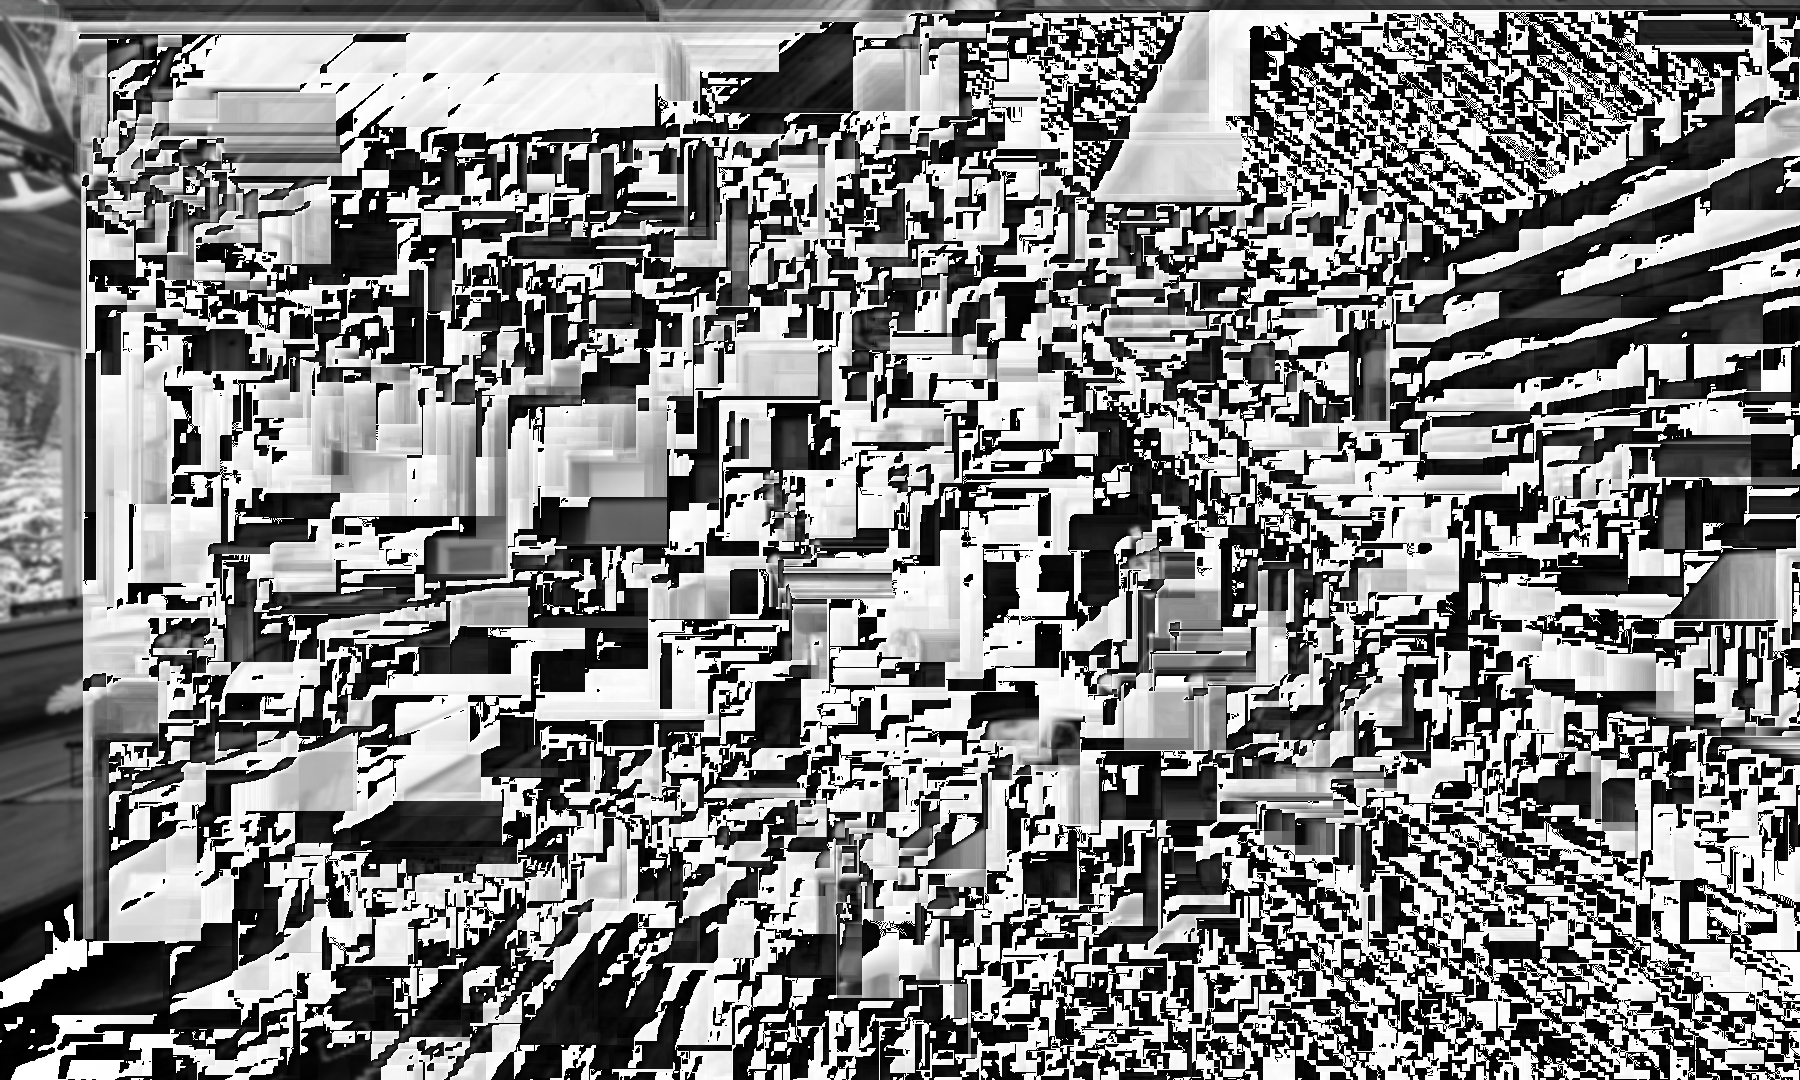
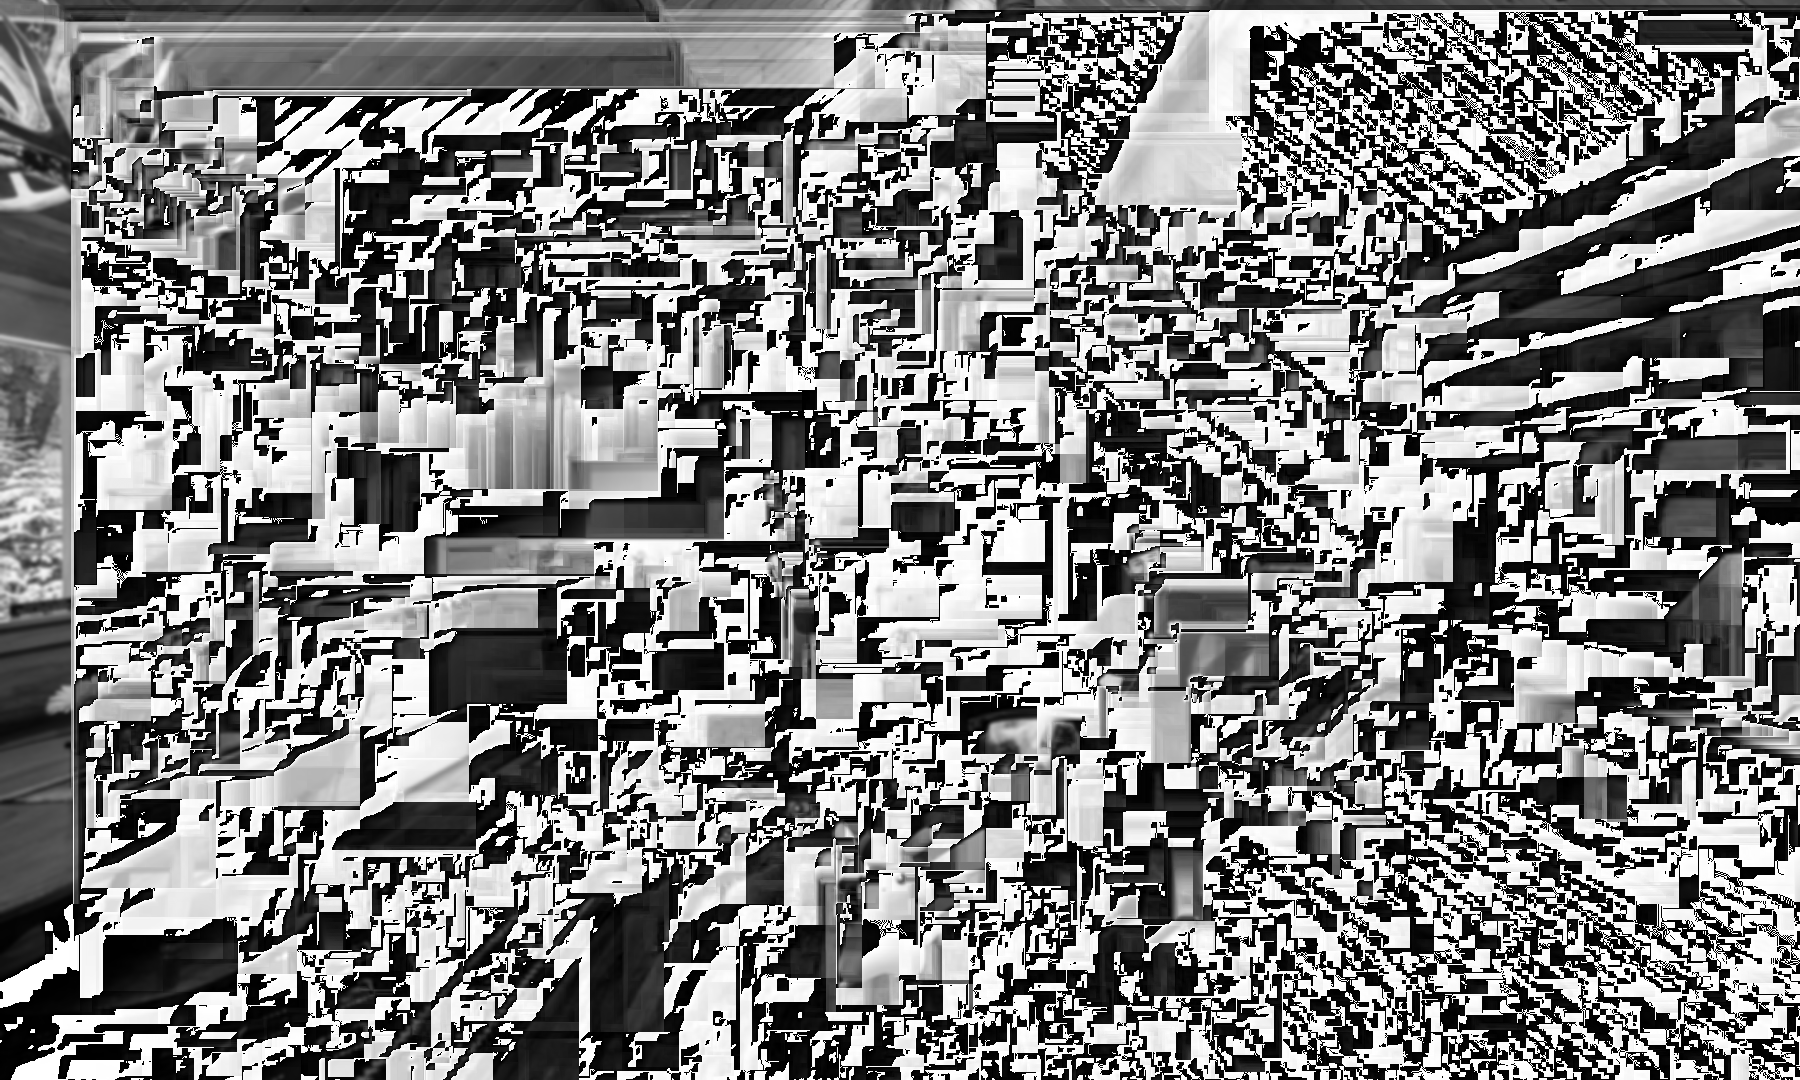
Completed serial version

diff --git a/OpenCLLab/main.cpp b/OpenCLLab/main.cpp
@@ -18,10 +18,26 @@ int width, height;
 //Fun Fact: Basically every OpenCL function returns an error code for debugging
 //You can even pass in a reference to a cl_int to constructors to check for errors!
 
+unsigned int getPixel(unsigned int* inData, int x, int y, int w, int h) {
+	if (x < 0) {
+		x = 0;
+	}
+	else if (x > w - 1) {
+		x = w - 1;
+	}
+	if (y < 0) {
+		y = 0;
+	}
+	else if (y > h - 1) {
+		y = h - 1;
+	}
+	return inData[y * w + x];
+}
+
 int main()
 {
 	//FIRST DO IT WITH GPU
-
+	std::cout << "=======================        GPU        =======================" << std::endl << std::endl;
 	//Gets the platforms and devices to be used
 	if (!CLHandler::setup(&platform, &devices, &context, 0))
 		std::cin.get();
@@ -91,6 +107,7 @@ int main()
 
 
 	//SECOND DO IT WITH CPU
+	std::cout << std::endl << "=======================        CPU        =======================" << std::endl << std::endl;
 
 	//Gets the platforms and devices to be used
 	if (!CLHandler::setup(&platform, &devices, &context, 1))
@@ -153,6 +170,7 @@ int main()
 
 
 	//THIRD DO IT WITH GPU AND CPU
+	std::cout << std::endl << "=======================     GPU & CPU     =======================" << std::endl << std::endl;
 
 	//Gets the platforms and devices to be used
 	if (!CLHandler::setup(&platform, &devices, &context, 2))
@@ -218,9 +236,60 @@ int main()
 
 	std::cout << "Time to write = " << timeElapsed << std::endl;
 
-
 	//FINALLY DO IT SERIALLY
+	std::cout << std::endl << "=======================      Serial       =======================" << std::endl << std::endl;
 
+	imageData = (unsigned int*)stbi_load("../img.png", &width, &height, NULL, STBI_rgb_alpha);
+
+	startTime = clock();
+
+	float gauss[] = {
+		0.058379266789788185f, 0.06705176688958259f,0.058379266789788185f,0.038530430847356856f,0.01927728703018819f,
+		0.06705176688958259f,0.0770126055060589f,0.06705176688958259f,0.044254297962235976f,0.022141013878541074f,
+		0.058379266789788185f,0.06705176688958259f,0.058379266789788185f,0.038530430847356856f,0.01927728703018819f,
+		0.038530430847356856f,0.044254297962235976f,0.038530430847356856f,0.025430160105104932f,0.012723047336580126f,
+		0.01927728703018819f,0.022141013878541074f,0.01927728703018819f,0.012723047336580126f,0.006365509806458638f
+	};
+	int kernelSize = 5;
+	int mid = kernelSize / 2;
+
+	// Code here
+	result = new unsigned int[numPixels];
+	for (int i = 0; i < numPixels; i++) {
+		int x = i % width;
+		int y = i / width;
+		float accR = 0.0f;
+		float accG = 0.0f;
+		float accB = 0.0f;
+
+		for (int i = 0; i < kernelSize; i++) {
+			for (int j = 0; j < kernelSize; j++) {
+				int kernelPos = i * kernelSize + j;
+				unsigned int col = getPixel(imageData, x + j - mid, y + i - mid, width, height);
+				int r = (col & 0xFF000000) >> 24;
+				int g = (col & 0x00FF0000) >> 16;
+				int b = (col & 0x0000FF00) >> 8;
+				accR += r * gauss[kernelPos];
+				accG += g * gauss[kernelPos];
+				accB += b * gauss[kernelPos];
+			}
+		}
+
+		result[i] = ((int)accR << 24) + ((int)accG << 16) + ((int)accB << 8) + (imageData[i] & 0x000000FF);
+	}
+
+	endTime = clock();
+	timeElapsed = (endTime - startTime) / 1000.0;
+	startTime = endTime;
+
+	std::cout << "Time to process = " << timeElapsed << std::endl;
+
+	stbi_write_png("../imgserial.png", width, height, STBI_rgb_alpha, result, width * STBI_rgb_alpha);
+
+	endTime = clock();
+	timeElapsed = (endTime - startTime) / 1000.0;
+
+	std::cout << "Time to write = " << timeElapsed << std::endl;
 
 	std::cin.get();
 }
